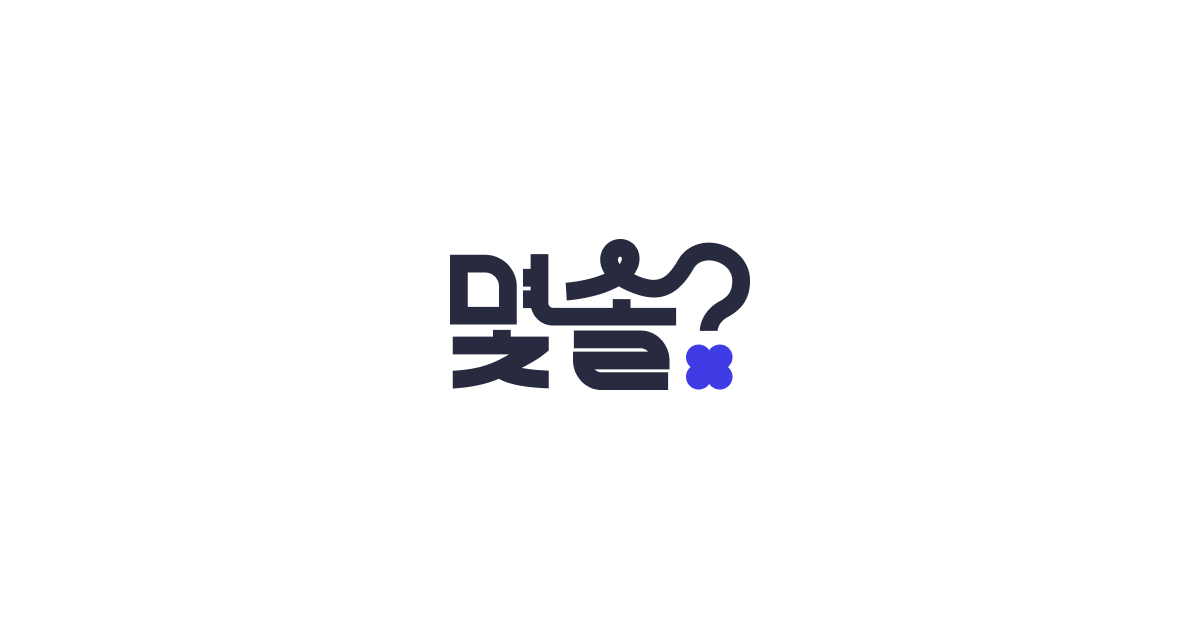
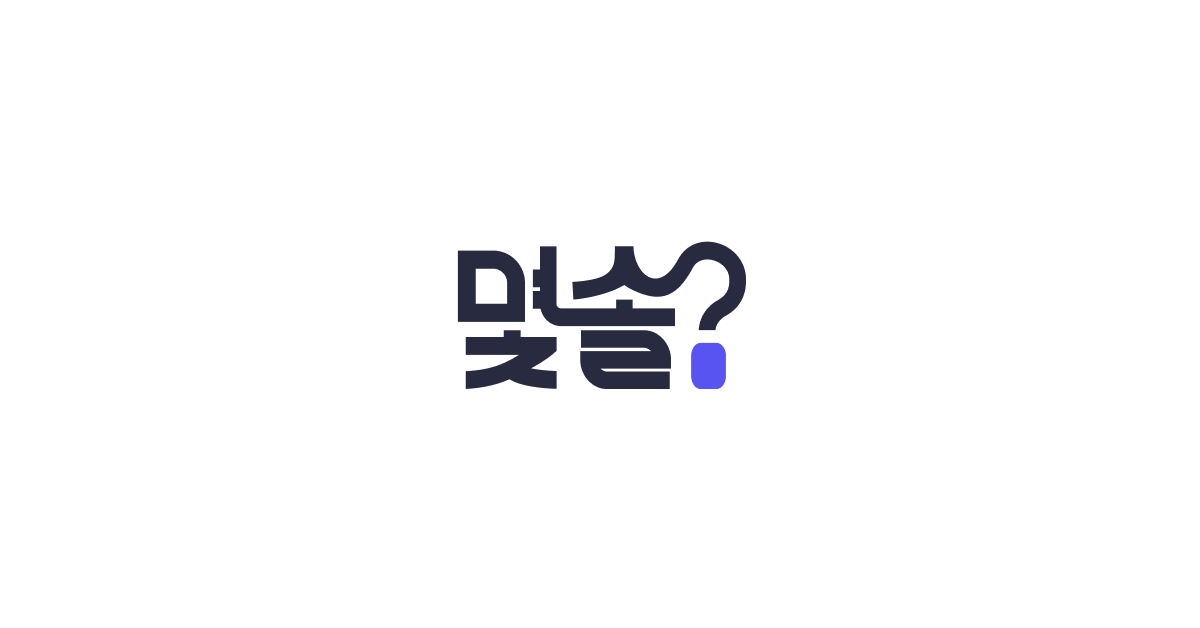
[Fix] 수정사항 반영

Changed region(s): [[0.37, 0.3631, 0.6167, 0.6354], [0.5858, 0.4236, 0.6475, 0.5143]]

diff --git a/app/ui/common/feedBackBtn.tsx b/app/ui/common/feedBackBtn.tsx
@@ -1,36 +1,28 @@
-"use client";
-import Image from "next/image";
-import { useState } from "react";
-import FeedBackModal from "./feedBackModal";
+'use client';
+import Image from 'next/image';
+import { useState } from 'react';
+import FeedBackModal from './feedBackModal';
 
 export default function FeedBackBtn() {
-  const [active, setActive] = useState(false);
+	const [active, setActive] = useState(false);
 
-  return (
-    <div className="hidden lg:block fixed left-10 bottom-6">
-      {
-        active?
-        <FeedBackModal setVisible={setActive}/>
-        :
-        <div className=" flex flex-col items-center">
-          <button
-          onClick={()=>setActive(true)}
-            type="button"
-            className=""
-          >
-            <Image
-              src="/icons/clover_circle.png"
-              width={72}
-              height={72}
-              alt="feedback button"
-              className=""
-            />
-          </button>
-          <div className="my-2  bg-gradient-text-2 text-sm text-center text-transparent bg-clip-text font-bold">
-            피드백 남기기
-          </div>
-        </div>
-      }
-    </div>
-  );
+	return (
+		<div className="fixed bottom-6 left-10 hidden lg:block">
+			{active ? (
+				<FeedBackModal setVisible={setActive} />
+			) : (
+				<div className="flex flex-col items-center">
+					<button onClick={() => setActive(true)} type="button" className="">
+						<Image
+							src="/icons/feedback-btn.png"
+							width={72}
+							height={72}
+							alt="feedback button"
+							className=""
+						/>
+					</button>
+				</div>
+			)}
+		</div>
+	);
 }

diff --git a/app/ui/company/testInfo.tsx b/app/ui/company/testInfo.tsx
@@ -1,4 +1,3 @@
-import { Position, TestData } from '@/app/lib/definitions';
 import Container from '../common/container';
 import PositionSelectBox from './positionSelectBox';
 import Image from 'next/image';
@@ -6,6 +5,7 @@ import InfoItem from './infoItem';
 import LanguageBox from '../common/languageBox';
 import Link from 'next/link';
 import VerifyMark from './verifyMark';
+import { Position, TestData } from '@/app/lib/types/models';
 
 export default function TestInfo({
 	positions,
@@ -31,10 +31,6 @@ export default function TestInfo({
 								/>
 								{data.is_official ? (
 									<>
-										{' '}
-										<div className="absolute -left-7 top-1/2 flex -translate-y-1/2 transform sm:hidden">
-											<Image src={'/icons/verifyIcon.png'} width={18} height={18} alt="verifyed" />
-										</div>
 										<VerifyMark />
 									</>
 								) : (
@@ -43,7 +39,7 @@ export default function TestInfo({
 							</div>
 						</div>
 						<div className="flex w-full flex-row flex-wrap">
-							<div className="my-auto w-full text-base md:w-1/4">지원언어</div>
+							<div className="my-auto mb-4 w-full text-base sm:mb-0 md:w-1/4">지원언어</div>
 							<div className="flex w-full flex-wrap md:w-3/4">
 								{data.support_languages.length > 0 ? (
 									data.support_languages.map((language) => (

diff --git a/app/company/[id]/page.tsx b/app/company/[id]/page.tsx
@@ -65,8 +65,8 @@ export default async function Page({
 
 	return (
 		<>
-			<div className="relative h-32 w-full bg-[url('/company_sm.png')] bg-cover bg-center sm:bg-[url('/company_30.png')] md:h-64 lg:h-64"></div>
-			<div className="relative flex flex-col items-center justify-center border-b border-t border-gray-30 bg-bg-base py-10 md:py-16">
+			<div className="relative h-32 w-full bg-gradient-to-b from-[#ECEEF6] to-[#F8F9FB] bg-cover bg-center md:h-64 lg:h-64"></div>
+			<div className="relative flex flex-col items-center justify-center border-b border-gray-30 bg-bg-base py-10 md:py-16">
 				<Container>
 					<div
 						className="absolute top-[-1.375rem] h-16 w-16 rounded-xl border border-gray-30 bg-cover bg-center bg-no-repeat md:top-[-3rem] md:h-24 md:w-24"

diff --git a/app/ui/company/positionSelectBox.tsx b/app/ui/company/positionSelectBox.tsx
@@ -1,6 +1,6 @@
 'use client';
 
-import { Position } from '@/app/lib/definitions';
+import { Position } from '@/app/lib/types/models';
 import {
 	Select,
 	SelectContent,
@@ -47,6 +47,11 @@ export default function PositionSelectBox({
 				)}
 			>
 				<SelectValue />
+				{isOfficial && (
+					<div className="absolute right-10 top-1/2 flex -translate-y-1/2 transform sm:hidden">
+						<Image src={'/icons/verifyIcon.png'} width={18} height={18} alt="verifyed" />
+					</div>
+				)}
 			</SelectTrigger>
 			<SelectContent>
 				{positions.map((position) => (

diff --git a/app/lib/server/queries/datalab/index.ts b/app/lib/server/queries/datalab/index.ts
@@ -1,8 +1,6 @@
-'use server';
-
-import { SPRING_URL } from '@/app/lib/utils/constants';
-import { deleteToken, getToken, updateToken } from '@/app/lib/utils/cookie';
 import { DataLabDetail } from '@/app/lib/types/models';
+import { SPRING_URL } from '@/app/lib/utils/constants';
+import { deleteToken, getToken } from '@/app/lib/utils/cookie';
 
 export const fetchDatalabData = async (id: string) => {
 	const headers: { 'Content-Type': string; 'Cache-Control'?: string; Authorization?: string } = {

diff --git a/app/ui/navigation/topNav.tsx b/app/ui/navigation/topNav.tsx
@@ -27,8 +27,8 @@ export default function Topnav() {
 					<div className="flex flex-1 items-stretch justify-start">
 						<Link href="/" className="flex flex-shrink-0 items-center">
 							<Image
-								width={48}
-								height={24}
+								width={42}
+								height={32}
 								className="hidden sm:block"
 								src="/icons/logo_light.png"
 								alt="몇솔"

diff --git a/app/company/[id]/datalab/page.tsx b/app/company/[id]/datalab/page.tsx
@@ -61,7 +61,7 @@ export default async function DataLabPage({ params }: { params: { id: string } }
 		notFound();
 	}
 	const dataLabDetails = await fetchDatalabData(company_id);
-
+	console.log(dataLabDetails);
 	return (
 		<>
 			<div className="relative h-32 w-full bg-[url('/company_sm.png')] bg-cover bg-center sm:bg-[url('/company_30.png')] md:h-64 lg:h-64"></div>

diff --git a/app/company/(overview)/page.tsx b/app/company/(overview)/page.tsx
@@ -17,7 +17,7 @@ export const metadata: Metadata = {
 		siteName: '몇솔',
 		images: [
 			{
-				url: 'https://sols.kr/og-company.png',
+				url: 'https://sols.kr/og.png',
 				width: 1200,
 				height: 628,
 				alt: '몇솔 기업 소개 OpenGraph 이미지'
